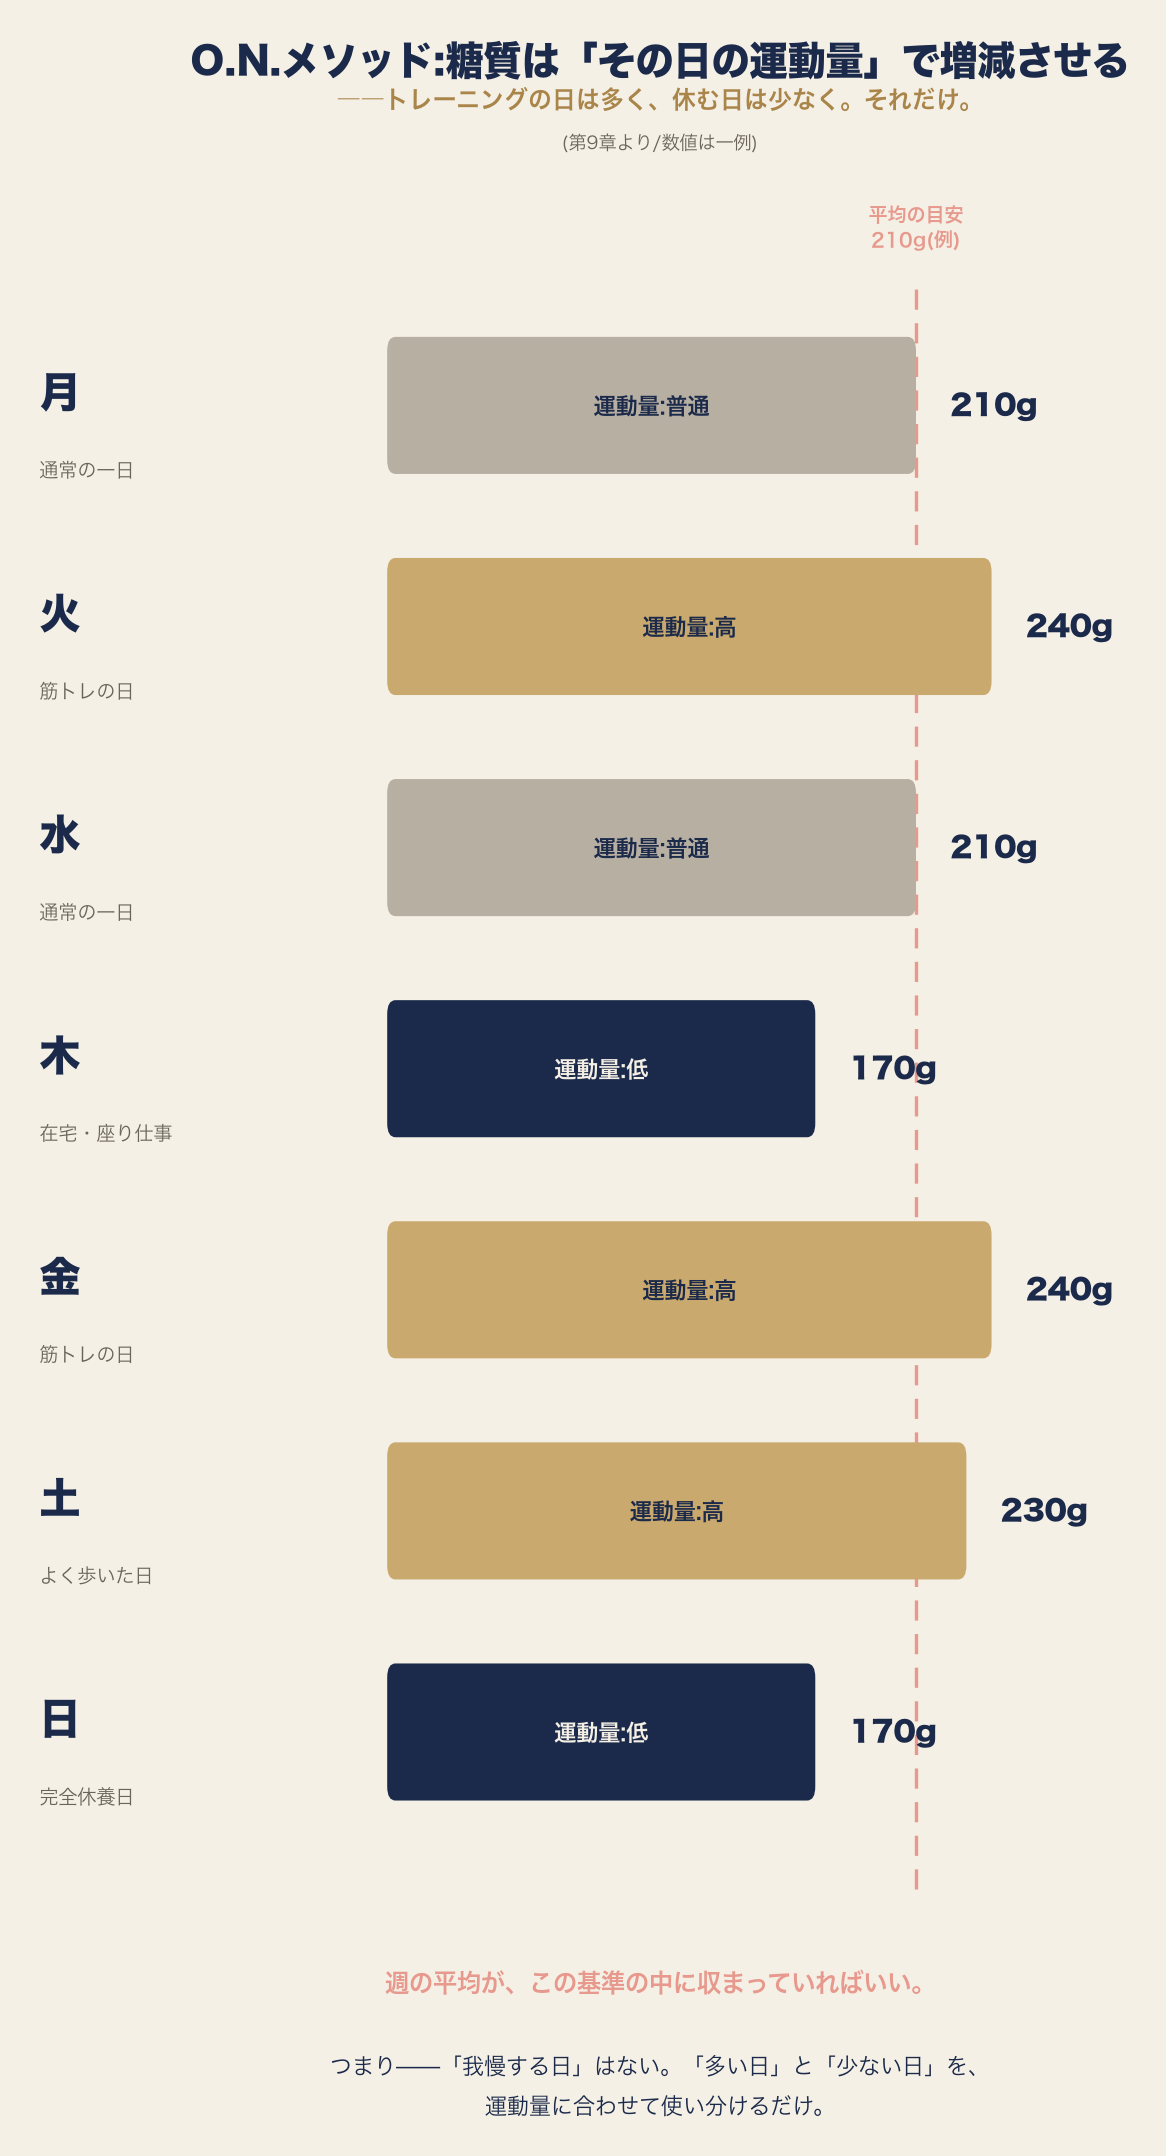
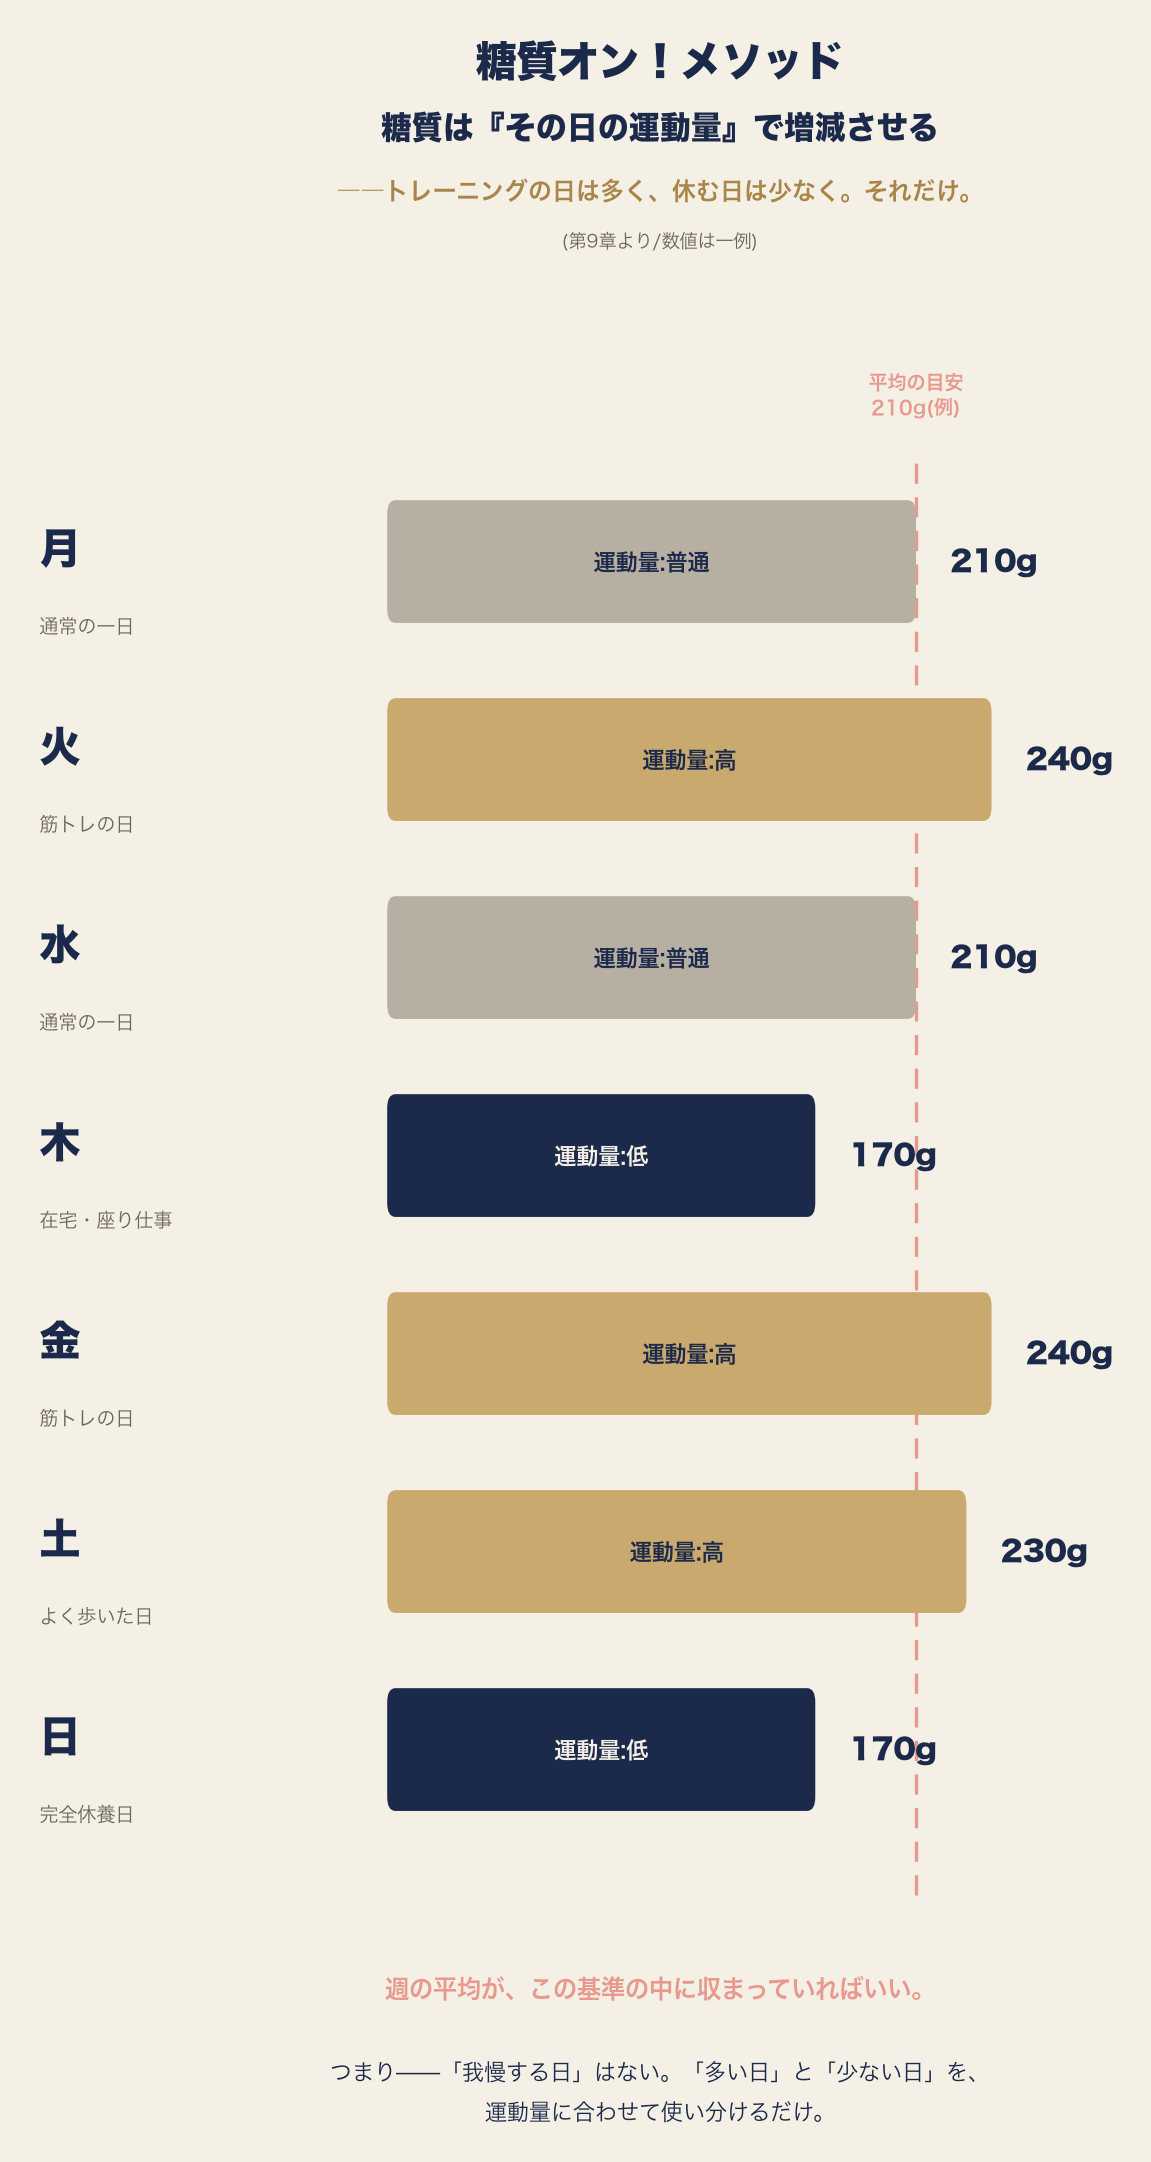
図解03のタイトルを『糖質オン！メソッド』表記に統一、本文の『出力』を『消費量』に変更
- 図解タイトルを2行構成(糖質オン！メソッド/糖質は『その日の運動量』で増減させる)に
- セクション5本文の『身体の出力をオンにする』→『身体の消費量をオンにする』
- alt・キャプション文言も同表記に統一

diff --git a/index.html b/index.html
@@ -350,7 +350,7 @@
         <!-- 本文 -->
         <div class="reveal-on-scroll space-y-8 text-[16px] leading-[1.9] text-[#3A4560] font-normal text-justify mb-12">
           <p>
-            『糖質<span class="stamp-target text-[#C9A96E] font-serif font-bold">オン！</span>』とは、糖質を運動・筋肉・回復のエネルギーとして配置し、身体の出力をオンにする方法です。
+            『糖質<span class="stamp-target text-[#C9A96E] font-serif font-bold">オン！</span>』とは、糖質を運動・筋肉・回復のエネルギーとして配置し、身体の消費量をオンにする方法です。
           </p>
           <p>
             これは『糖質を食べれば痩せる』という魔法の話ではありません。エネルギー収支の原則は守ります。守り方を、設計図のレベルから組み直すのです。
@@ -359,10 +359,10 @@
 
         <!-- 図解画像 zukai03.png -->
         <div class="reveal-on-scroll relative w-full rounded-sm overflow-hidden border border-[#C9A96E]/20 shadow-sm bg-[#F5F0E6] mb-4">
-          <img src="zukai03.png" alt="糖質は『その日の運動量』で増減させる——O.N.メソッド" class="w-full h-auto block" onerror="window.repairAssetSource(this, true);">
+          <img src="zukai03.png" alt="糖質オン！メソッド 糖質は『その日の運動量』で増減させる" class="w-full h-auto block" onerror="window.repairAssetSource(this, true);">
         </div>
         <p class="reveal-on-scroll text-center text-[13px] md:text-[14px] text-[#3A4560] font-medium mb-12">
-          糖質は『その日の運動量』で増減させる——O.N.メソッド
+          糖質オン！メソッド――糖質は『その日の運動量』で増減させる
         </p>
 
         <!-- 写真バナー(明転) -->